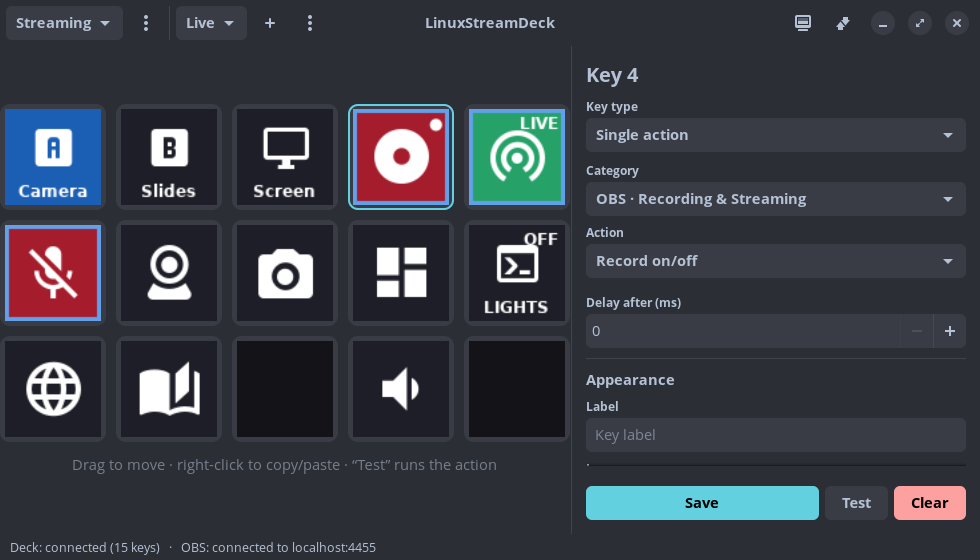
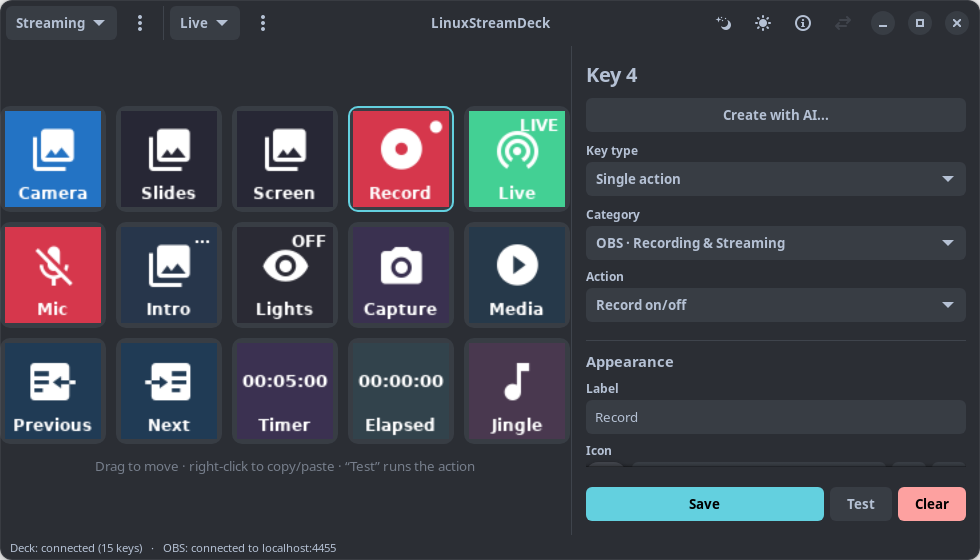
feat: Update screenshot description in README and replace image

diff --git a/README.md b/README.md
@@ -9,7 +9,7 @@
 ![Platform: Linux](https://img.shields.io/badge/platform-Linux-informational)
 ![UI: GTK4 / Libadwaita](https://img.shields.io/badge/UI-GTK4%20%2F%20Libadwaita-4A90D9)
 
-<img src="docs/screenshot.png" alt="LinuxStreamDeck controlling OBS Studio" width="840">
+<img src="docs/screenshot.png" alt="LinuxStreamDeck Streaming profile with a 15-key virtual deck and the Record action editor" width="840">
 
 </div>
 
